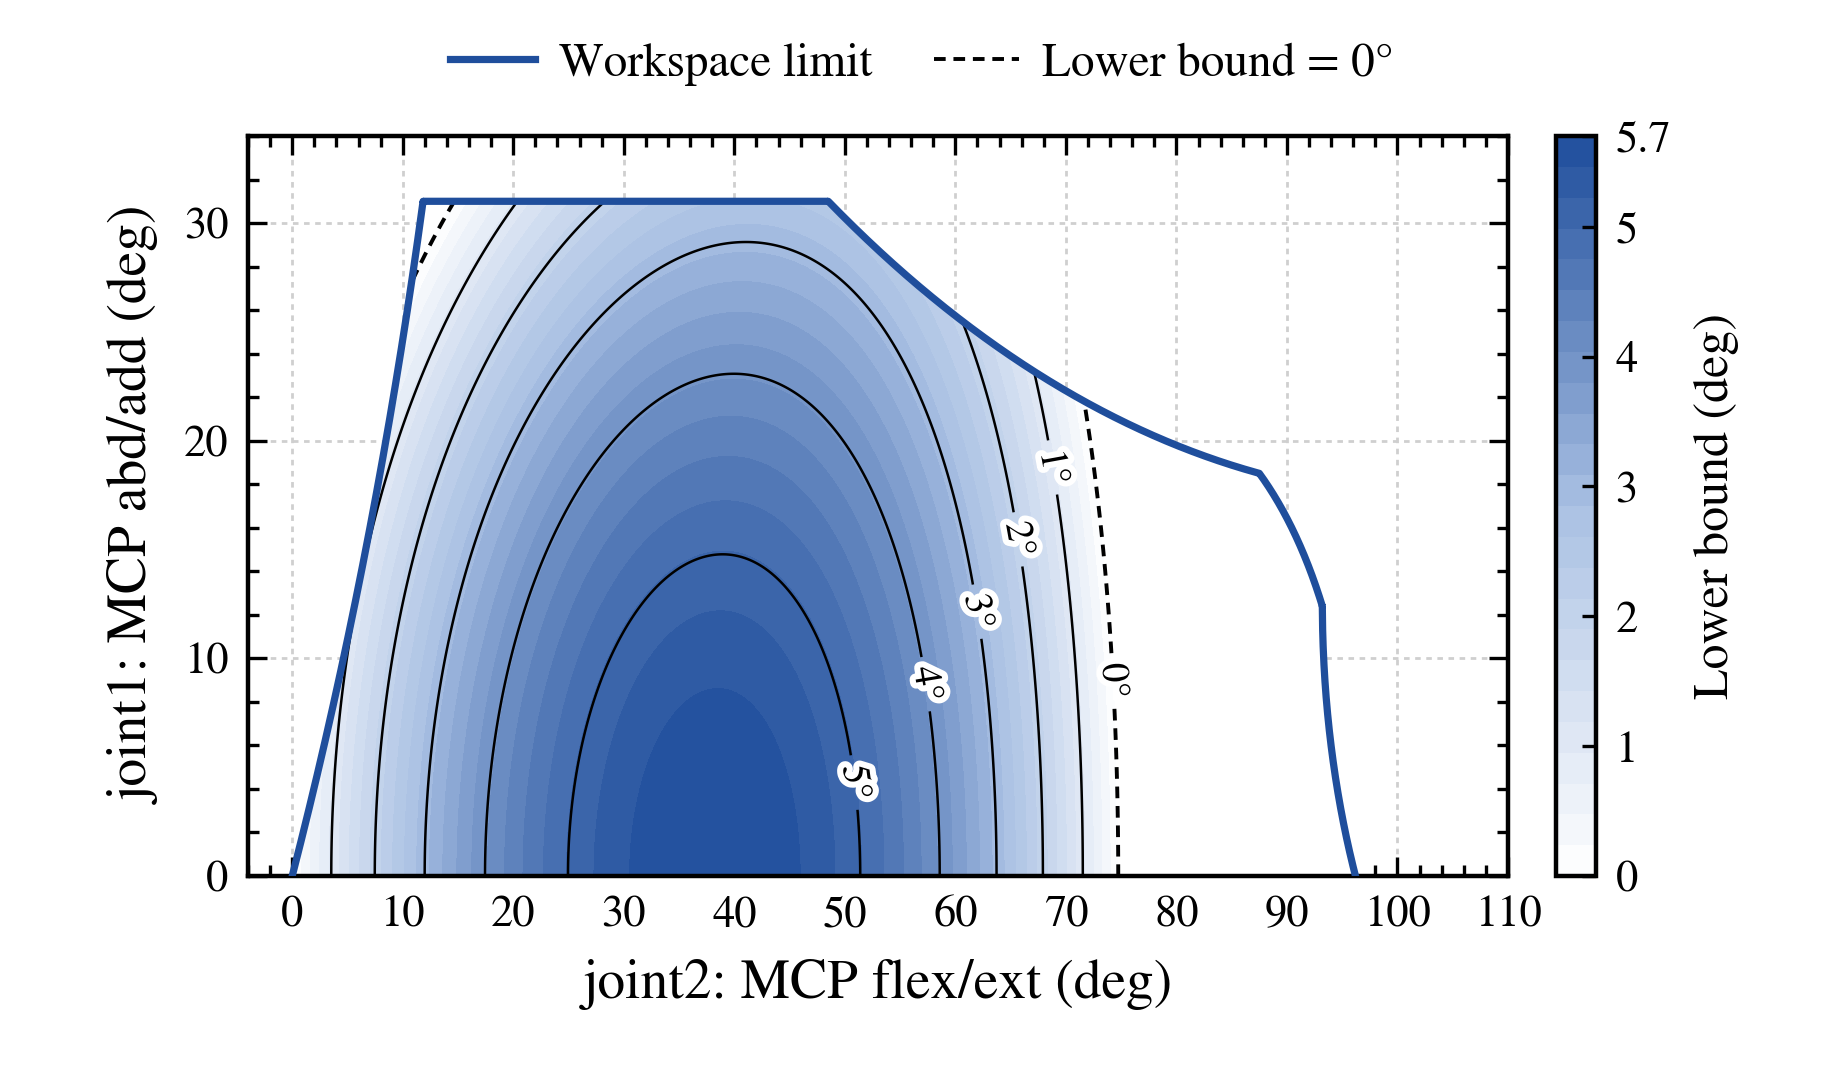
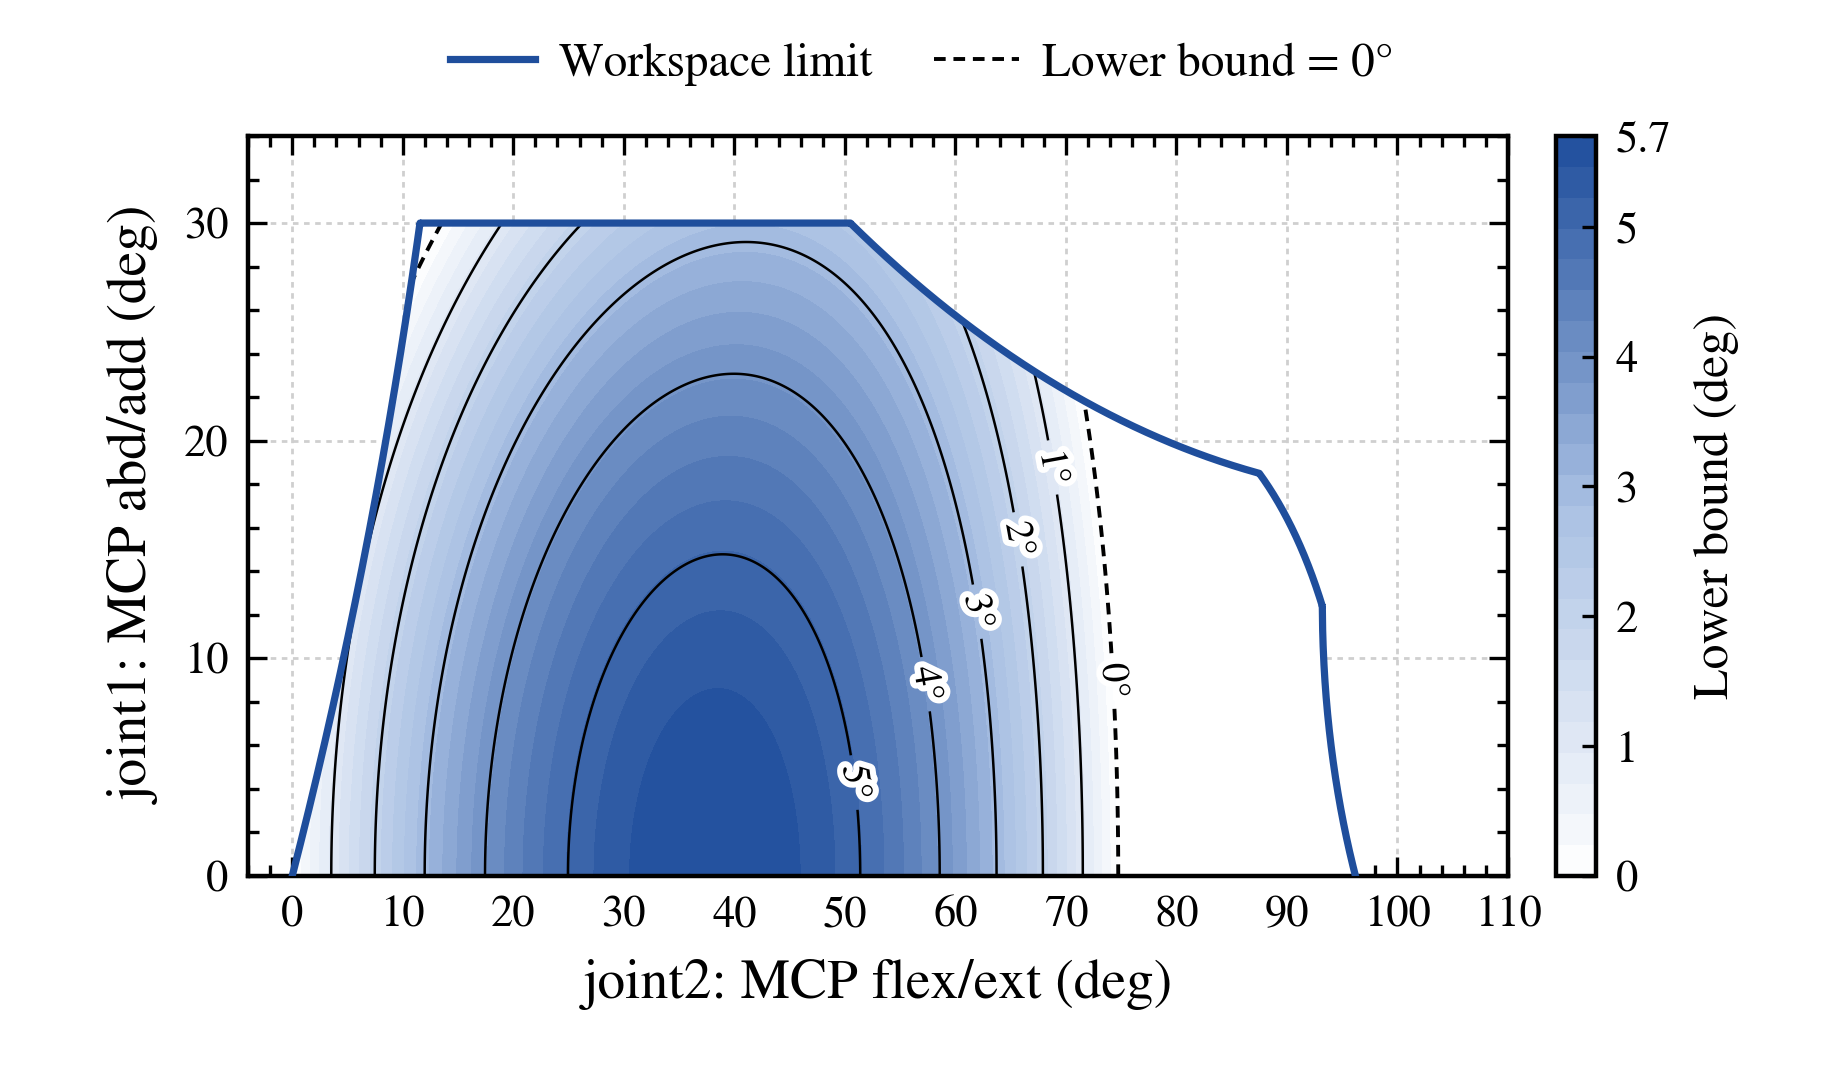
fix(clamp): Retune the long finger plateau
The long finger boundary is retuned on the same measured run, and its
abduction plateau now sits inside the measured stops.

Changed region(s): [[0.2164, 0.184, 0.4637, 0.2147]]

diff --git a/cpp/src/hand_core/kinematics/joint_clamp.cpp b/cpp/src/hand_core/kinematics/joint_clamp.cpp
@@ -53,9 +53,9 @@ struct BoundaryPiece
 // Shared by index, middle, ring and baby, tuned on the 2026-10-01 right hand (hand type a)
 constexpr std::array<BoundaryPiece, kLongPieceCount> kLongBoundary{{
     // kind            flexion lo    hi   abduction lo   hi    arc centre flexion  centre abduction  signed radius
-    {PieceKind::Arc,    0.00,  11.84,    0.00,  31.00, -142.7432481848,   72.2797696293, -160.0},
-    {PieceKind::Line,  11.84,  48.50,   31.00,  31.00,    0.0,             0.0,               0.0},
-    {PieceKind::Arc,   48.50,  87.50,   31.00,  18.50,  104.0890439315,  137.3478170664, -120.0},
+    {PieceKind::Arc,    0.00,  11.56,    0.00,  30.00, -142.7639230149,   72.2389250017, -160.0},
+    {PieceKind::Line,  11.56,  50.50,   30.00,  30.00,    0.0,             0.0,               0.0},
+    {PieceKind::Arc,   50.50,  87.50,   30.00,  18.50,  104.1494008616,  137.3393766853, -120.0},
     {PieceKind::Arc,   87.50,  93.20,   18.50,  12.40,   76.0586998853,    2.0958343191,   20.0},
     {PieceKind::Arc,   93.20,  96.20,   12.40,   0.00,  121.1992042337,   12.6110977985,  -28.0},
 }};

diff --git a/docs/ko/14_workspace_limits.md b/docs/ko/14_workspace_limits.md
@@ -26,7 +26,7 @@ long finger(index / middle / ring / baby)입니다.
 
 | Joint | Axis | Allowed range |
 | :--- | :--- | :--- |
-| `joint1` | MCP abduction/adduction | [−31°, 31°] (coupled) |
+| `joint1` | MCP abduction/adduction | [−30.0°, 30.0°] (coupled) |
 | `joint2` | MCP flexion/extension | [0°, 96.2°] (coupled) |
 | `joint3` | PIP flexion/extension | [0°, 80°] (하한은 `joint1`·`joint2`에 따라) |
 | `joint4` | DIP flexion/extension | [0°, 90.6°] (passive) |
@@ -148,9 +148,9 @@ long finger의 $y_{\max}$는 다음 5개 segment로 구성됩니다.
 
 | Type | $\mathbf p_0$ | $\mathbf p_1$ | $\mathbf c$ | $R$ |
 | :--- | ---: | ---: | ---: | ---: |
-| Arc | (0, 0) | (11.84, 31) | (−142.7432, 72.2798) | −160 |
-| Line | (11.84, 31) | (48.5, 31) | — | — |
-| Arc | (48.5, 31) | (87.5, 18.5) | (104.0890, 137.3478) | −120 |
+| Arc | (0, 0) | (11.56, 30) | (−142.7639, 72.2389) | −160 |
+| Line | (11.56, 30) | (50.5, 30) | — | — |
+| Arc | (50.5, 30) | (87.5, 18.5) | (104.1494, 137.3394) | −120 |
 | Arc | (87.5, 18.5) | (93.2, 12.4) | (76.0587, 2.0958) | 20 |
 | Arc | (93.2, 12.4) | (96.2, 0) | (121.1992, 12.6111) | −28 |
 

diff --git a/docs/en/14_workspace_limits.md b/docs/en/14_workspace_limits.md
@@ -28,7 +28,7 @@ Long fingers (index / middle / ring / baby).
 
 | Joint | Axis | Allowed range |
 | :--- | :--- | :--- |
-| `joint1` | MCP abduction/adduction | [−31°, 31°] (coupled) |
+| `joint1` | MCP abduction/adduction | [−30.0°, 30.0°] (coupled) |
 | `joint2` | MCP flexion/extension | [0°, 96.2°] (coupled) |
 | `joint3` | PIP flexion/extension | [0°, 80°] (lower bound depends on `joint1` and `joint2`) |
 | `joint4` | DIP flexion/extension | [0°, 90.6°] (passive) |
@@ -153,9 +153,9 @@ The long finger $y_{\max}$ consists of the following 5 segments.
 
 | Type | $\mathbf p_0$ | $\mathbf p_1$ | $\mathbf c$ | $R$ |
 | :--- | ---: | ---: | ---: | ---: |
-| Arc | (0, 0) | (11.84, 31) | (−142.7432, 72.2798) | −160 |
-| Line | (11.84, 31) | (48.5, 31) | — | — |
-| Arc | (48.5, 31) | (87.5, 18.5) | (104.0890, 137.3478) | −120 |
+| Arc | (0, 0) | (11.56, 30) | (−142.7639, 72.2389) | −160 |
+| Line | (11.56, 30) | (50.5, 30) | — | — |
+| Arc | (50.5, 30) | (87.5, 18.5) | (104.1494, 137.3394) | −120 |
 | Arc | (87.5, 18.5) | (93.2, 12.4) | (76.0587, 2.0958) | 20 |
 | Arc | (93.2, 12.4) | (96.2, 0) | (121.1992, 12.6111) | −28 |
 
